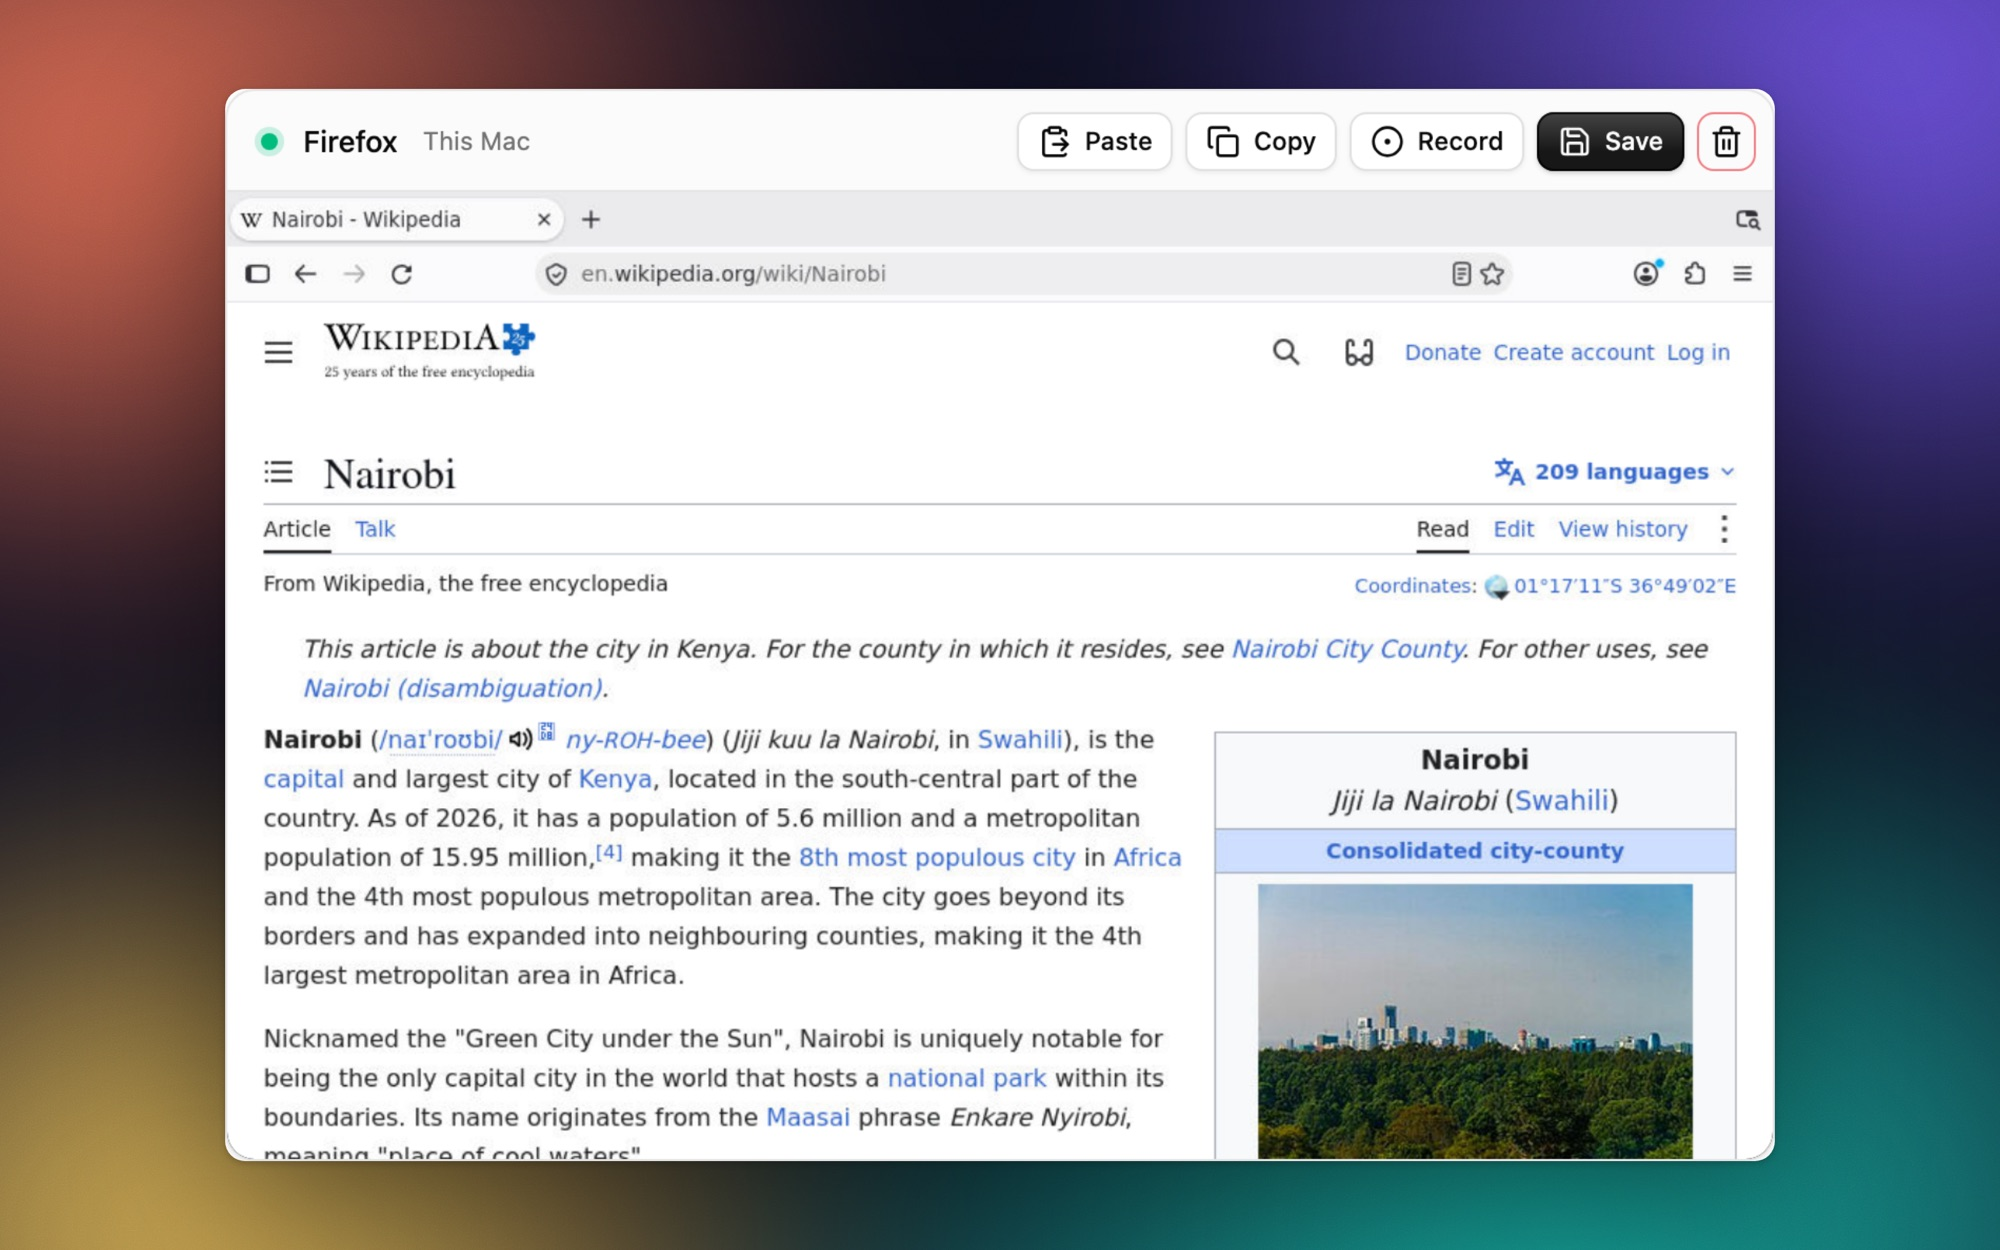
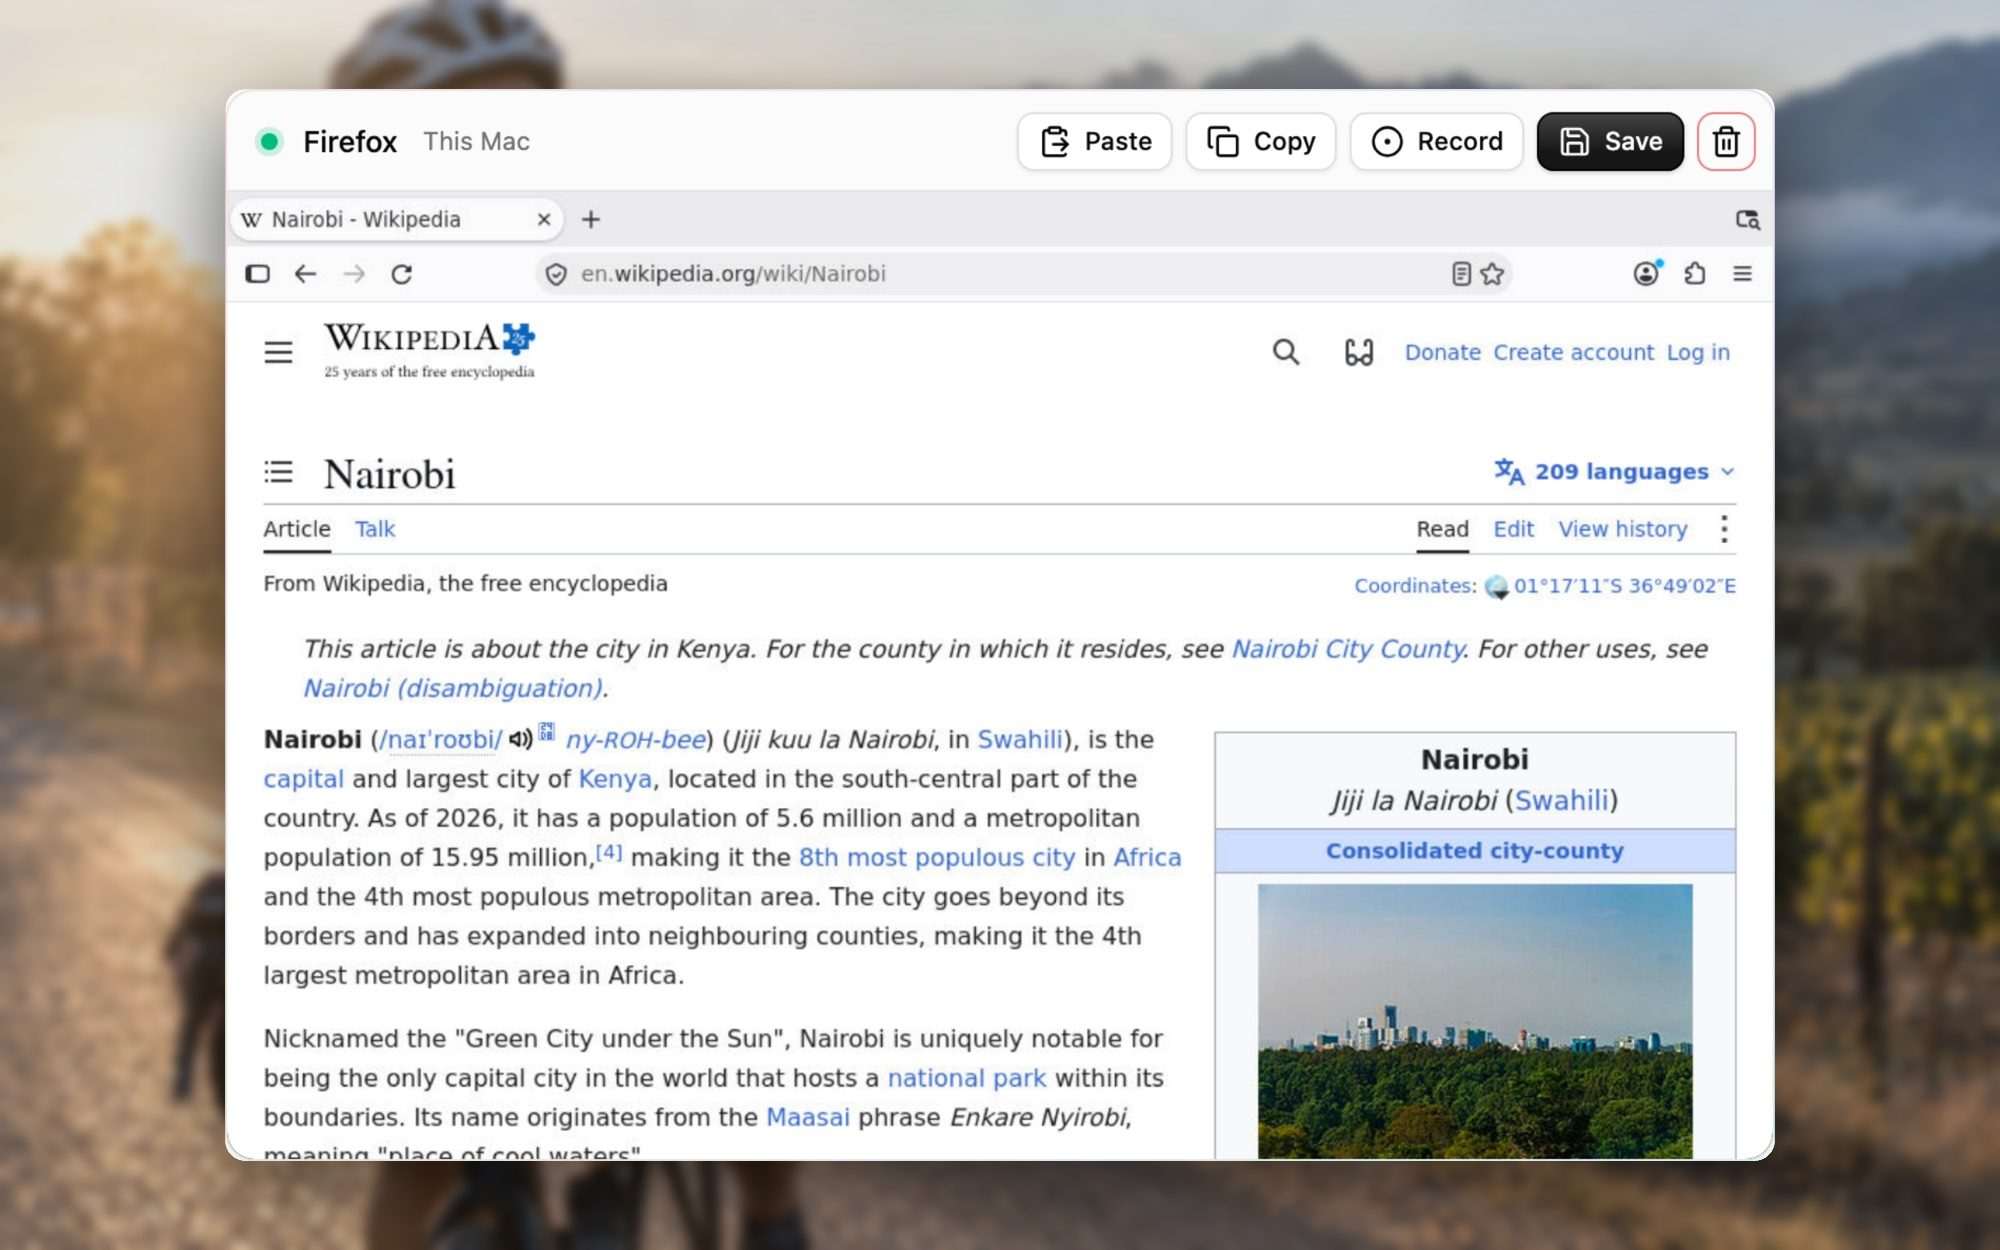
README: the window on the winelands photo, and worklyn.com/computer as home

diff --git a/README.md b/README.md
@@ -1,6 +1,7 @@
 <p align="center"><img src="docs/banner.png" alt="Computer" width="700"></p>
 
 A Firefox that stays signed in, in a small Linux VM on your Mac, that you and your agents can drive.
+**[worklyn.com/computer](https://worklyn.com/computer)**
 
 ![The Computer page: Firefox running in a VM on this Mac, with Paste, Copy, Record and Save](docs/hero.jpg)
 
